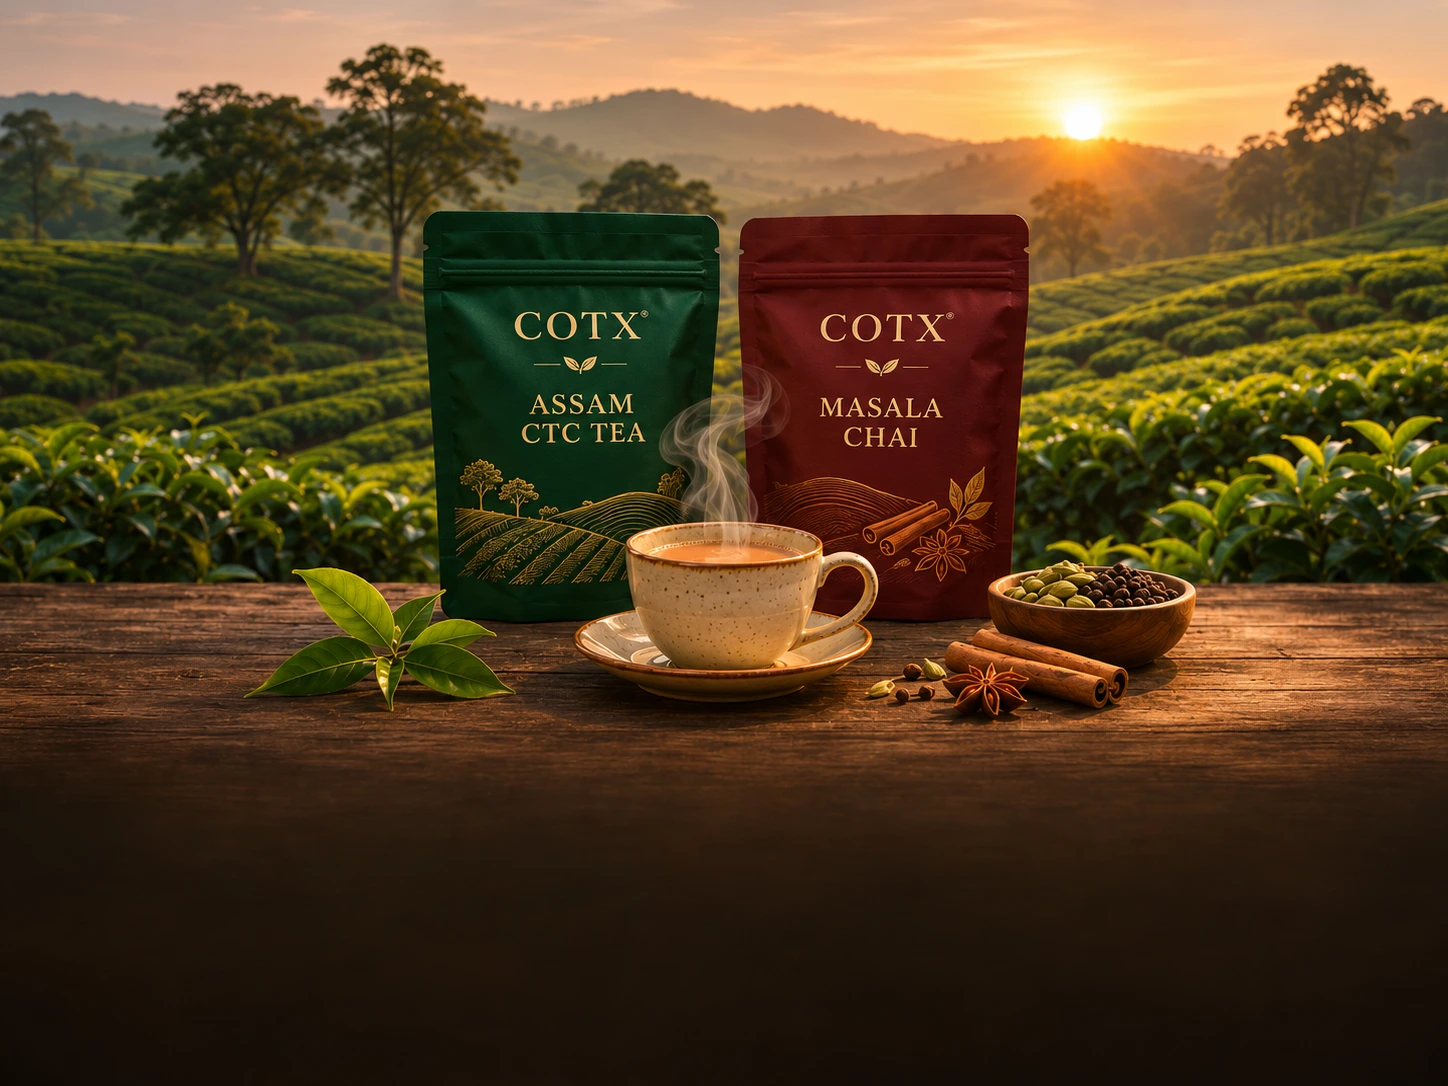
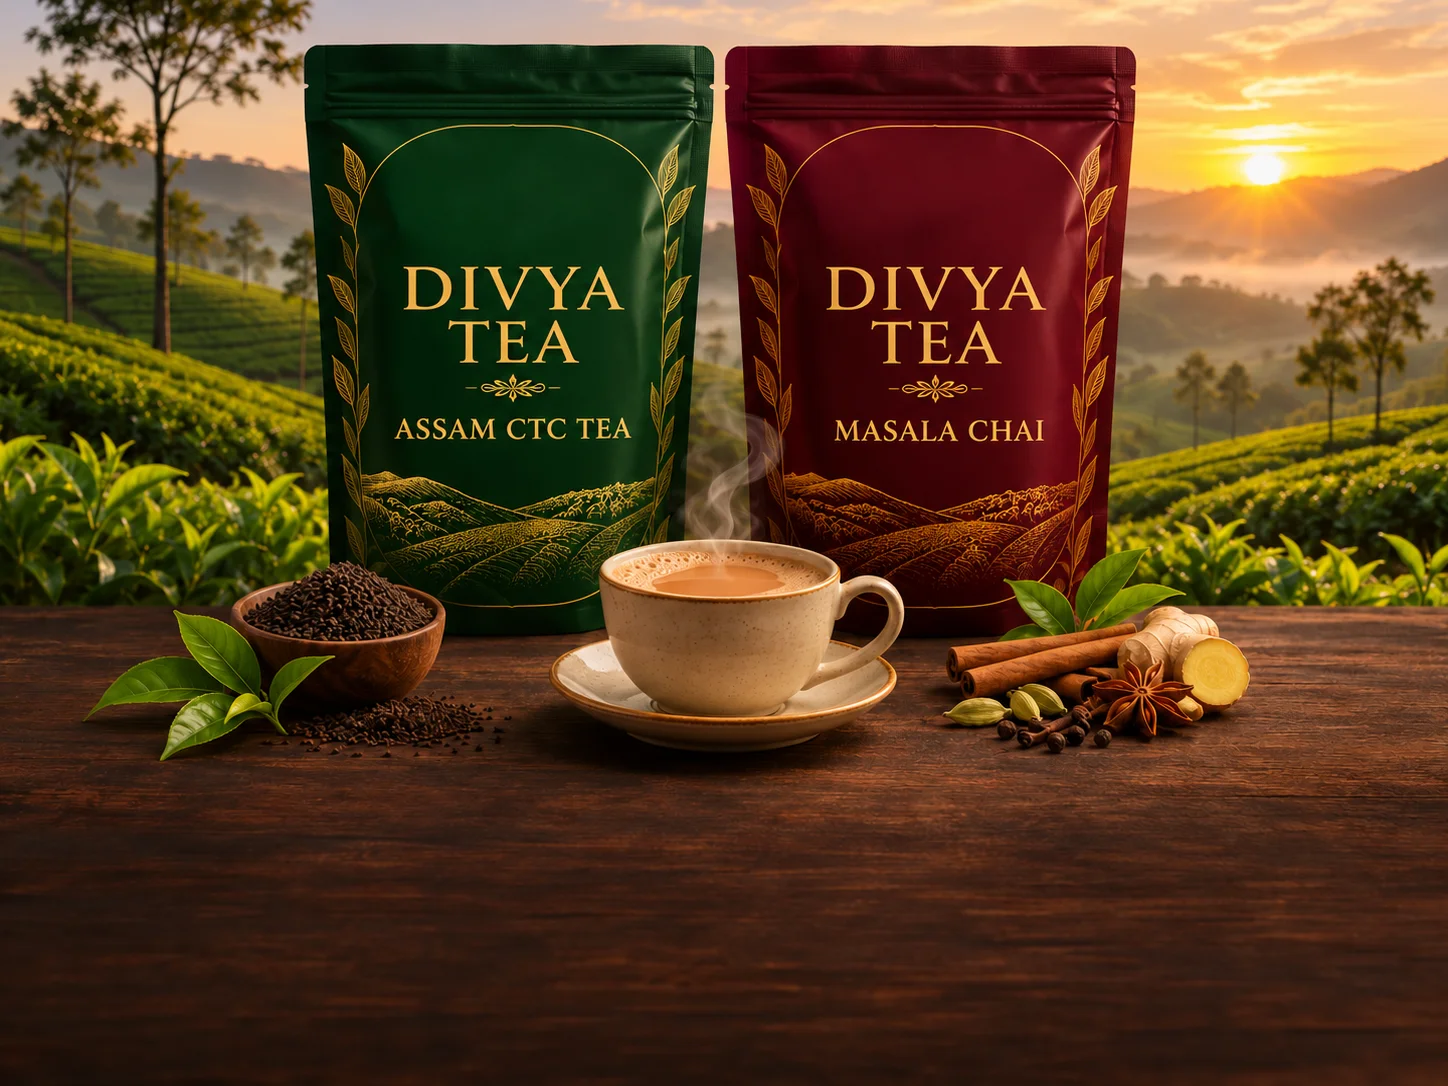
feat: rebrand tea portfolio to Divya Tea with new artwork across split-panel showcase, categories, and catalogue

diff --git a/src/data/products.js b/src/data/products.js
@@ -1,9 +1,9 @@
 // Multi-Brand Product Catalogue for DKB VENTURES
-// Portfolio: COTX Luxury Skincare & COTX Fine Tea
+// Portfolio: COTX Luxury Skincare & Divya Tea
 
 export const BRANDS = [
   { id: 'cotx', slug: 'cotx-luxury-skincare', name: 'COTX Luxury Skincare', short: 'COTX Skincare' },
-  { id: 'cotx-tea', slug: 'cotx-fine-tea', name: 'COTX Fine Tea', short: 'COTX Tea' },
+  { id: 'divya-tea', slug: 'divya-tea', name: 'Divya Tea', short: 'Divya Tea' },
 ]
 
 export const CATEGORIES = [
@@ -77,8 +77,8 @@ export const CATEGORIES = [
   {
     id: 'daily-premium-tea',
     name: 'Daily & Premium Tea',
-    brandId: 'cotx-tea',
-    brandName: 'COTX Fine Tea',
+    brandId: 'divya-tea',
+    brandName: 'Divya Tea',
     icon: 'leaf',
     image: '/images/category-daily-premium-tea.webp',
     subtitle: 'Garden-fresh Assam CTC tea & aromatic spiced royal chai',
@@ -88,8 +88,8 @@ export const CATEGORIES = [
   {
     id: 'wholesale-bulk-tea',
     name: 'Wholesale & Bulk Tea Packs',
-    brandId: 'cotx-tea',
-    brandName: 'COTX Fine Tea',
+    brandId: 'divya-tea',
+    brandName: 'Divya Tea',
     icon: 'box',
     image: '/images/category-wholesale-bulk-tea.webp',
     subtitle: 'Commercial 5 kg & 25 kg master cartons for caterers & trade',
@@ -768,14 +768,14 @@ export const PRODUCTS = [
   {
     id: 'cotx-assam-ctc-tea',
     slug: 'cotx-assam-ctc-tea',
-    brandId: 'cotx-tea',
-    brandName: 'COTX Fine Tea',
+    brandId: 'divya-tea',
+    brandName: 'Divya Tea',
     categoryId: 'daily-premium-tea',
     categoryName: 'Daily & Premium Tea',
     name: 'Assam CTC Tea',
     short: 'Garden-fresh Assam CTC black tea delivering robust liquor, rich color, and strong taste.',
     description:
-      'Sourced from high-grown Assam tea estates, COTX Assam CTC Tea brews an invigorating, full-bodied cup perfect for daily morning and evening chai.',
+      'Sourced from high-grown Assam tea estates, Divya Tea Assam CTC brews an invigorating, full-bodied cup perfect for daily morning and evening chai.',
     concern: 'Fresh Daily Beverage',
     pricingMode: 'enquiry',
     price: null,
@@ -795,14 +795,14 @@ export const PRODUCTS = [
   {
     id: 'cotx-masala-chai',
     slug: 'cotx-masala-chai',
-    brandId: 'cotx-tea',
-    brandName: 'COTX Fine Tea',
+    brandId: 'divya-tea',
+    brandName: 'Divya Tea',
     categoryId: 'daily-premium-tea',
     categoryName: 'Daily & Premium Tea',
     name: 'Masala Chai',
     short: 'Authentic spiced tea blend of premium CTC with cardamom, ginger, cloves, and cinnamon.',
     description:
-      'COTX Masala Chai blends traditional aromatic whole spices with robust CTC tea leaves for an authentic, warming kadak chai experience.',
+      'Divya Tea Masala Chai blends traditional aromatic whole spices with robust CTC tea leaves for an authentic, warming kadak chai experience.',
     concern: 'Fresh Daily Beverage',
     pricingMode: 'enquiry',
     price: null,
@@ -826,14 +826,14 @@ export const PRODUCTS = [
   {
     id: 'cotx-bulk-tea',
     slug: 'cotx-bulk-tea',
-    brandId: 'cotx-tea',
-    brandName: 'COTX Fine Tea',
+    brandId: 'divya-tea',
+    brandName: 'Divya Tea',
     categoryId: 'wholesale-bulk-tea',
     categoryName: 'Wholesale & Bulk Tea Packs',
     name: 'Bulk Tea',
     short: 'Commercial master cartons of high-grade Assam tea for wholesale buyers, caterers, and trade.',
     description:
-      'Designed for institutions, caterers, tea blenders, and regional retailers. COTX Bulk Tea master cartons are packaged in food-grade lined cartons for optimal aroma retention and shelf life.',
+      'Designed for institutions, caterers, tea blenders, and regional retailers. Divya Tea Bulk Tea master cartons are packaged in food-grade lined cartons for optimal aroma retention and shelf life.',
     concern: 'Commercial Wholesale',
     pricingMode: 'wholesale',
     price: 0,
@@ -856,8 +856,21 @@ export const PRODUCTS = [
   },
 ]
 
-export const getProductBySlug = (slug) => PRODUCTS.find((p) => p.slug === slug || p.id === slug)
-export const getProductsByBrand = (brandId) => PRODUCTS.filter((p) => p.brandId === brandId)
+export const getProductBySlug = (slug) =>
+  PRODUCTS.find(
+    (p) =>
+      p.slug === slug ||
+      p.id === slug ||
+      p.slug.replace('divya-', 'cotx-') === slug ||
+      p.slug.replace('cotx-', 'divya-') === slug
+  )
+export const getProductsByBrand = (brandId) =>
+  PRODUCTS.filter(
+    (p) =>
+      p.brandId === brandId ||
+      (brandId === 'cotx-tea' && p.brandId === 'divya-tea') ||
+      (brandId === 'divya-tea' && p.brandId === 'divya-tea')
+  )
 export const getFeaturedProducts = () => PRODUCTS.filter((p) => p.featured)
 export const getBestsellerProducts = () => PRODUCTS.filter((p) => p.bestseller)
 export const getNewArrivals = () => PRODUCTS.filter((p) => p.newArrival)

diff --git a/src/pages/Home.jsx b/src/pages/Home.jsx
@@ -20,7 +20,8 @@ import {
 
 const BRAND_VISUALS = {
   'cotx-luxury-skincare': '/images/brand-cotx-luxury-skincare.webp',
-  'cotx-fine-tea': '/images/category-daily-premium-tea.webp',
+  'divya-tea': '/images/divya-tea-showcase.webp',
+  'cotx-fine-tea': '/images/divya-tea-showcase.webp',
 }
 
 const HERO_SLIDES = [
@@ -33,7 +34,7 @@ const HERO_SLIDES = [
     desc: 'Connecting premium skincare, salon facial kits, and fine estate tea with retailers, salons, beauty parlours, distributors, and individual customers from Budh Vihar, Delhi.',
     image: '/images/dkb-portfolio-hero.webp',
     chip1: 'Curated Portfolio',
-    chip1Sub: 'COTX Luxury Skincare & Fine Tea',
+    chip1Sub: 'COTX Luxury Skincare & Divya Tea',
     chip2: 'Direct Delhi Supply',
     chip2Sub: 'Budh Vihar Hub · GST Registered',
     exploreLink: '/shop',
@@ -59,21 +60,21 @@ const HERO_SLIDES = [
     b2bText: 'COTX Salon Wholesale Quote',
   },
   {
-    id: 'cotx-tea',
-    tabLabel: '☕ COTX Fine Tea',
+    id: 'divya-tea',
+    tabLabel: '☕ Divya Tea',
     badge: 'Artisanal CTC & Wholesale Bulk Supply',
-    title: 'COTX Fine Tea,',
+    title: 'Divya Tea,',
     titleAccent: 'Rich Aroma & Bold Flavor.',
     desc: 'Finest Assam CTC leaf tea, royal spiced masala chai, and commercial catering bulk cartons (5 kg & 25 kg) for daily retail enjoyment and wholesale distributors.',
-    image: '/images/category-daily-premium-tea.webp',
+    image: '/images/divya-tea-showcase.webp',
     chip1: 'Daily Kadak Chai',
     chip1Sub: 'Assam CTC & Masala Chai',
     chip2: 'Commercial Master Cartons',
     chip2Sub: '5 kg & 25 kg Wholesale Supply',
     exploreLink: '/shop?category=daily-premium-tea',
     exploreText: 'Explore Tea Blends →',
-    b2bLink: '/wholesale?brand=cotx',
-    b2bText: 'Wholesale Tea Supply Quote',
+    b2bLink: '/wholesale?brand=divya-tea',
+    b2bText: 'Divya Tea Wholesale Supply Quote',
   },
 ]
 
@@ -152,7 +153,7 @@ const TESTIMONIALS = [
 export default function Home() {
   useSEO(
     'Trusted Partner in Beauty, Personal Care & Wellness',
-    'DKB Ventures connects quality brands (COTX Luxury Skincare & COTX Fine Tea) with retailers, salons, beauty parlours, distributors, and individual customers.'
+    'DKB Ventures connects quality brands (COTX Luxury Skincare & Divya Tea) with retailers, salons, beauty parlours, distributors, and individual customers.'
   )
 
   const [activeHeroIndex, setActiveHeroIndex] = useState(0)
@@ -363,7 +364,7 @@ export default function Home() {
             <span className="perk-eyebrow">— EXPLORE BRANDS —</span>
             <div className="perk-info">
               <h4>Multi-Brand Selection</h4>
-              <p>Discover COTX Luxury Skincare and COTX Fine Tea in one trusted portfolio.</p>
+              <p>Discover COTX Luxury Skincare and Divya Tea in one trusted portfolio.</p>
             </div>
           </Link>
 
@@ -437,11 +438,11 @@ export default function Home() {
               </div>
             </div>
 
-            {/* Right Panel: COTX Fine Tea */}
+            {/* Right Panel: Divya Tea */}
             <div className="brand-showcase-panel brand-showcase-panel-tea">
               <img
-                src="/images/cotx-fine-tea-showcase.webp"
-                alt="COTX Fine Tea"
+                src="/images/divya-tea-showcase.webp"
+                alt="Divya Tea"
                 className="brand-showcase-bg"
                 loading="lazy"
               />
@@ -451,7 +452,7 @@ export default function Home() {
               </div>
               <div className="brand-showcase-content">
                 <span className="brand-showcase-tagline">Estate Sourced Kadak & Spiced Blends</span>
-                <h3 className="brand-showcase-panel-title">COTX Fine Tea</h3>
+                <h3 className="brand-showcase-panel-title">Divya Tea</h3>
                 <p className="brand-showcase-panel-desc">
                   High-grown Assam CTC leaf tea, authentic royal masala chai, and commercial 5 kg & 25 kg wholesale master cartons.
                 </p>
@@ -460,7 +461,7 @@ export default function Home() {
                   <span className="showcase-chip">Daily Kadak Chai</span>
                   <span className="showcase-chip">5kg & 25kg Cartons</span>
                 </div>
-                <Link to="/brands/cotx-fine-tea" className="brand-showcase-btn">
+                <Link to="/brands/divya-tea" className="brand-showcase-btn">
                   <span>Explore Tea</span>
                   <span className="btn-arrow">→</span>
                 </Link>

diff --git a/src/pages/Distribution.jsx b/src/pages/Distribution.jsx
@@ -6,7 +6,7 @@ import { useSEO } from '../hooks/useSEO'
 export default function Distribution() {
   useSEO(
     'Distribution & Regional Business Partnerships',
-    'Apply to become a regional stockist or distributor partner for COTX Luxury Skincare and COTX Fine Tea with DKB Ventures.'
+    'Apply to become a regional stockist or distributor partner for COTX Luxury Skincare and Divya Tea with DKB Ventures.'
   )
 
   const [formData, setFormData] = useState({
@@ -48,7 +48,7 @@ export default function Distribution() {
         <span className="eyebrow">Channel Expansion</span>
         <h1 className="section-title">Distribution & Regional Business Partnerships</h1>
         <p className="section-subtitle">
-          Join hands with DKB Ventures to distribute, stock, and represent COTX Luxury Skincare and COTX Fine Tea in your regional market.
+          Join hands with DKB Ventures to distribute, stock, and represent COTX Luxury Skincare and Divya Tea in your regional market.
         </p>
       </div>
 
@@ -211,9 +211,9 @@ export default function Distribution() {
                     onChange={handleChange}
                     className="form-select"
                   >
-                    <option value="All Portfolios">All Portfolios (COTX Skincare & Fine Tea)</option>
+                    <option value="All Portfolios">All Portfolios (COTX Skincare & Divya Tea)</option>
                     <option value="COTX Luxury Skincare Only">COTX Luxury Skincare Only</option>
-                    <option value="COTX Fine Tea Only">COTX Fine Tea (Retail & Bulk) Only</option>
+                    <option value="Divya Tea Only">Divya Tea (Retail & Bulk) Only</option>
                   </select>
                 </div>
               </div>

diff --git a/src/pages/Shop.jsx b/src/pages/Shop.jsx
@@ -34,7 +34,14 @@ export default function Shop() {
 
   const filteredProducts = useMemo(() => {
     let result = PRODUCTS.filter((p) => {
-      if (currentBrand && p.brandId !== currentBrand) return false
+      if (currentBrand) {
+        const isTea = currentBrand === 'divya-tea' || currentBrand === 'cotx-tea' || currentBrand === 'cotx-fine-tea'
+        if (isTea) {
+          if (p.brandId !== 'divya-tea' && p.brandId !== 'cotx-tea') return false
+        } else if (p.brandId !== currentBrand) {
+          return false
+        }
+      }
       if (currentCategory && p.categoryId !== currentCategory) return false
       if (currentConcern && p.concern !== currentConcern) return false
       if (searchQuery) {
@@ -89,10 +96,10 @@ export default function Shop() {
         desc: 'Sulfate-free cleansers, targeted active serums, skin creams, and 6-step bridal salon facial kits.',
       }
     }
-    if (currentBrand === 'cotx-tea') {
+    if (currentBrand === 'divya-tea' || currentBrand === 'cotx-tea' || currentBrand === 'cotx-fine-tea') {
       return {
-        img: '/images/cotx-fine-tea-showcase.webp',
-        eyebrow: '☕ COTX Fine Tea',
+        img: '/images/divya-tea-showcase.webp',
+        eyebrow: '☕ Divya Tea',
         title: 'Estate Tea & Commercial Bulk Cartons',
         desc: 'Assam high-grown CTC tea, authentic spiced royal chai, and commercial catering cartons (5 kg & 25 kg).',
       }

diff --git a/src/components/Layout.jsx b/src/components/Layout.jsx
@@ -9,7 +9,7 @@ import dkbLogo from '../asset/DKB-logo.png'
 
 const ANNOUNCEMENTS = [
   'Wholesale & Retail Enquiries Welcome — Direct Supply from Delhi',
-  'Official Portfolio: COTX Luxury Skincare · COTX Fine Tea',
+  'Official Portfolio: COTX Luxury Skincare · Divya Tea',
   'Complimentary Shipping on Retail Orders Above ₹1,499 Across India',
   'Connect with DKB Ventures: 9999148167',
 ]
@@ -291,7 +291,7 @@ function Footer() {
           <h4>Brand Portfolio</h4>
           <div className="footer-links-list">
             <Link to="/brands/cotx-luxury-skincare">COTX Luxury Skincare</Link>
-            <Link to="/brands/cotx-fine-tea">COTX Fine Tea</Link>
+            <Link to="/brands/divya-tea">Divya Tea</Link>
             <Link to="/shop">All Collections</Link>
             <Link to="/shop?category=facial-kits">6-Step Facial Kits</Link>
             <Link to="/shop?category=wholesale-bulk-tea">Wholesale Bulk Tea</Link>

diff --git a/src/pages/Brands.jsx b/src/pages/Brands.jsx
@@ -5,13 +5,14 @@ import { useSEO } from '../hooks/useSEO'
 
 const BRAND_VISUALS = {
   'cotx-luxury-skincare': '/images/cotx-skincare-showcase.webp',
-  'cotx-fine-tea': '/images/cotx-fine-tea-showcase.webp',
+  'divya-tea': '/images/divya-tea-showcase.webp',
+  'cotx-fine-tea': '/images/divya-tea-showcase.webp',
 }
 
 export default function Brands() {
   useSEO(
-    'Our Brand Portfolio — COTX Luxury Skincare & COTX Fine Tea',
-    'Explore the brand portfolio of DKB Ventures: COTX Luxury Skincare (22 products) and COTX Fine Tea (3 products) with wholesale and retail supply.'
+    'Our Brand Portfolio — COTX Luxury Skincare & Divya Tea',
+    'Explore the brand portfolio of DKB Ventures: COTX Luxury Skincare (22 products) and Divya Tea (3 products) with wholesale and retail supply.'
   )
 
   return (

diff --git a/src/pages/BrandDetail.jsx b/src/pages/BrandDetail.jsx
@@ -7,14 +7,15 @@ import { useSEO } from '../hooks/useSEO'
 
 const BRAND_VISUALS = {
   'cotx-luxury-skincare': '/images/cotx-skincare-showcase.webp',
-  'cotx-fine-tea': '/images/cotx-fine-tea-showcase.webp',
+  'divya-tea': '/images/divya-tea-showcase.webp',
+  'cotx-fine-tea': '/images/divya-tea-showcase.webp',
 }
 
 export default function BrandDetail() {
   const { brandSlug } = useParams()
 
   const brand = COMPANY_INFO.brands.find(
-    (b) => b.id === brandSlug || b.key === brandSlug
+    (b) => b.id === brandSlug || b.key === brandSlug || (brandSlug === 'cotx-fine-tea' && b.id === 'divya-tea')
   )
 
   useSEO(

diff --git a/src/pages/Wholesale.jsx b/src/pages/Wholesale.jsx
@@ -228,7 +228,7 @@ export default function Wholesale() {
                   >
                     <option value="All Brands">All Brands (Complete Catalogue)</option>
                     <option value="COTX Luxury Skincare">COTX Luxury Skincare (Face Care, Kits, Serums)</option>
-                    <option value="COTX Fine Tea">COTX Fine Tea (Retail Pouches & 5kg/25kg Bulk Cartons)</option>
+                    <option value="Divya Tea">Divya Tea (Retail Pouches & 5kg/25kg Bulk Cartons)</option>
                   </select>
                 </div>
               </div>

diff --git a/src/data/companyInfo.js b/src/data/companyInfo.js
@@ -48,9 +48,9 @@ export const COMPANY_INFO = {
       ],
     },
     {
-      id: 'cotx-fine-tea',
-      key: 'cotx-tea',
-      name: 'COTX Fine Tea',
+      id: 'divya-tea',
+      key: 'divya-tea',
+      name: 'Divya Tea',
       tagline: 'Aromatic garden-fresh tea blends & commercial wholesale cartons',
       description:
         'High-quality estate tea products for everyday consumption, retail sale, and commercial wholesale opportunities. Sourced from fine Assam tea gardens to deliver robust flavor, rich color, and refreshing aroma.',

diff --git a/src/pages/Admin.jsx b/src/pages/Admin.jsx
@@ -247,7 +247,7 @@ export default function Admin() {
           <h3 style={{ fontFamily: 'var(--font-serif)', fontSize: '32px', color: 'var(--dkb-green-dark)', margin: '4px 0' }}>
             {PRODUCTS.length}
           </h3>
-          <span style={{ fontSize: '12px', color: 'var(--dkb-muted)' }}>COTX Skincare & COTX Fine Tea</span>
+          <span style={{ fontSize: '12px', color: 'var(--dkb-muted)' }}>COTX Skincare & Divya Tea</span>
         </div>
       </div>
 

diff --git a/src/styles.css b/src/styles.css
@@ -2344,7 +2344,8 @@ ol {
   border: 1px solid rgba(199, 160, 82, 0.45);
 }
 
-.concern-brand-cotx-tea {
+.concern-brand-cotx-tea,
+.concern-brand-divya-tea {
   background: rgba(122, 68, 25, 0.08);
   color: #7a4419;
   border: 1px solid rgba(199, 160, 82, 0.45);
@@ -2583,7 +2584,8 @@ ol {
   color: var(--dkb-gold-light);
 }
 
-.cat-brand-cotx-tea {
+.cat-brand-cotx-tea,
+.cat-brand-divya-tea {
   background: rgba(78, 52, 46, 0.88);
   color: #fce8cc;
 }
